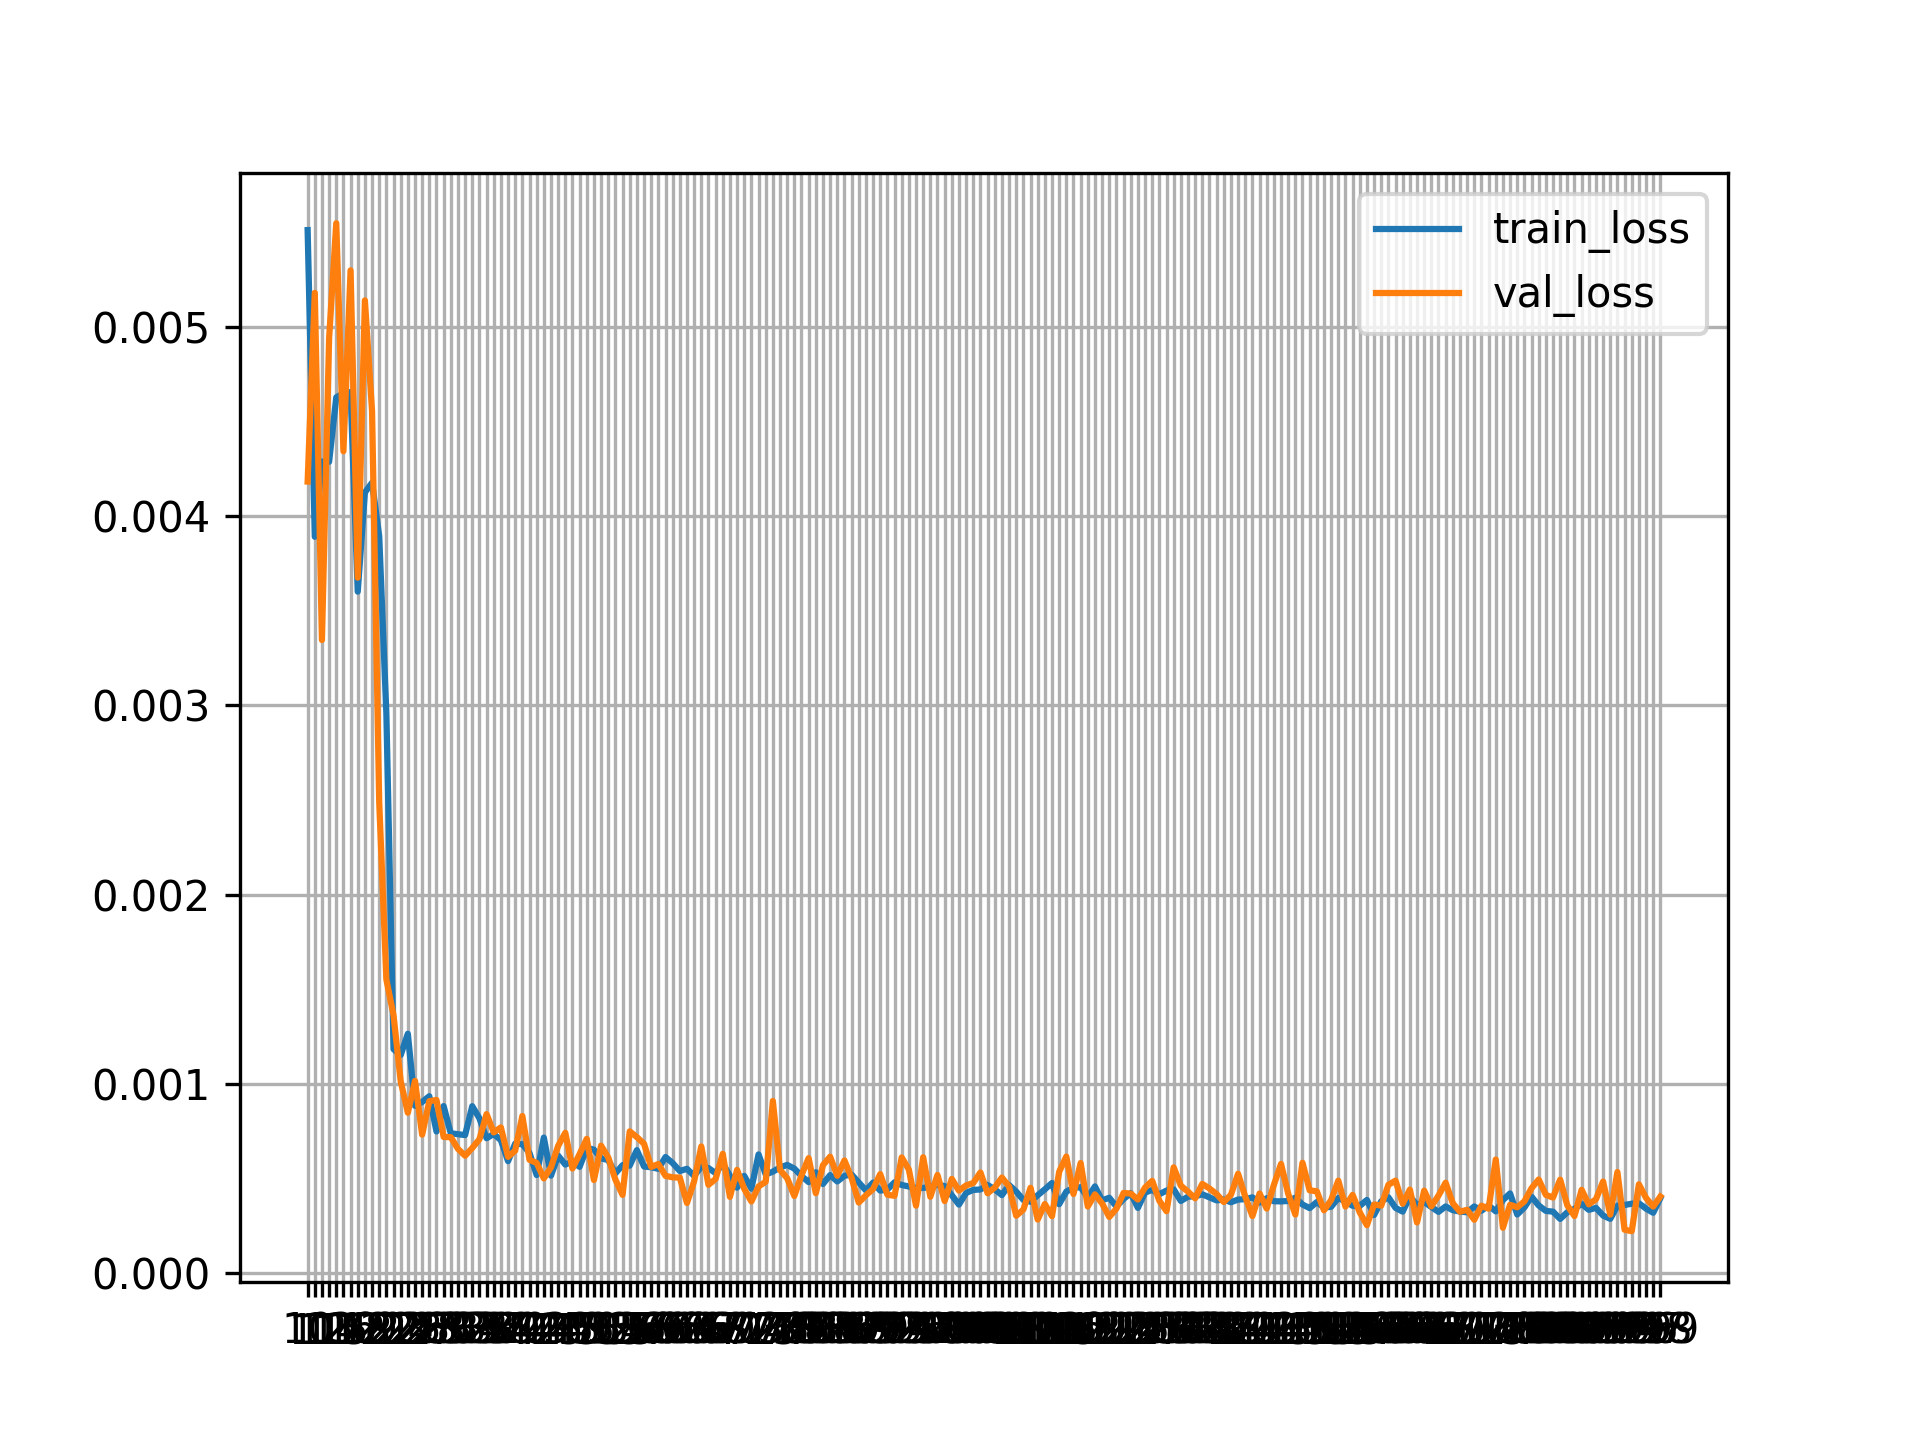
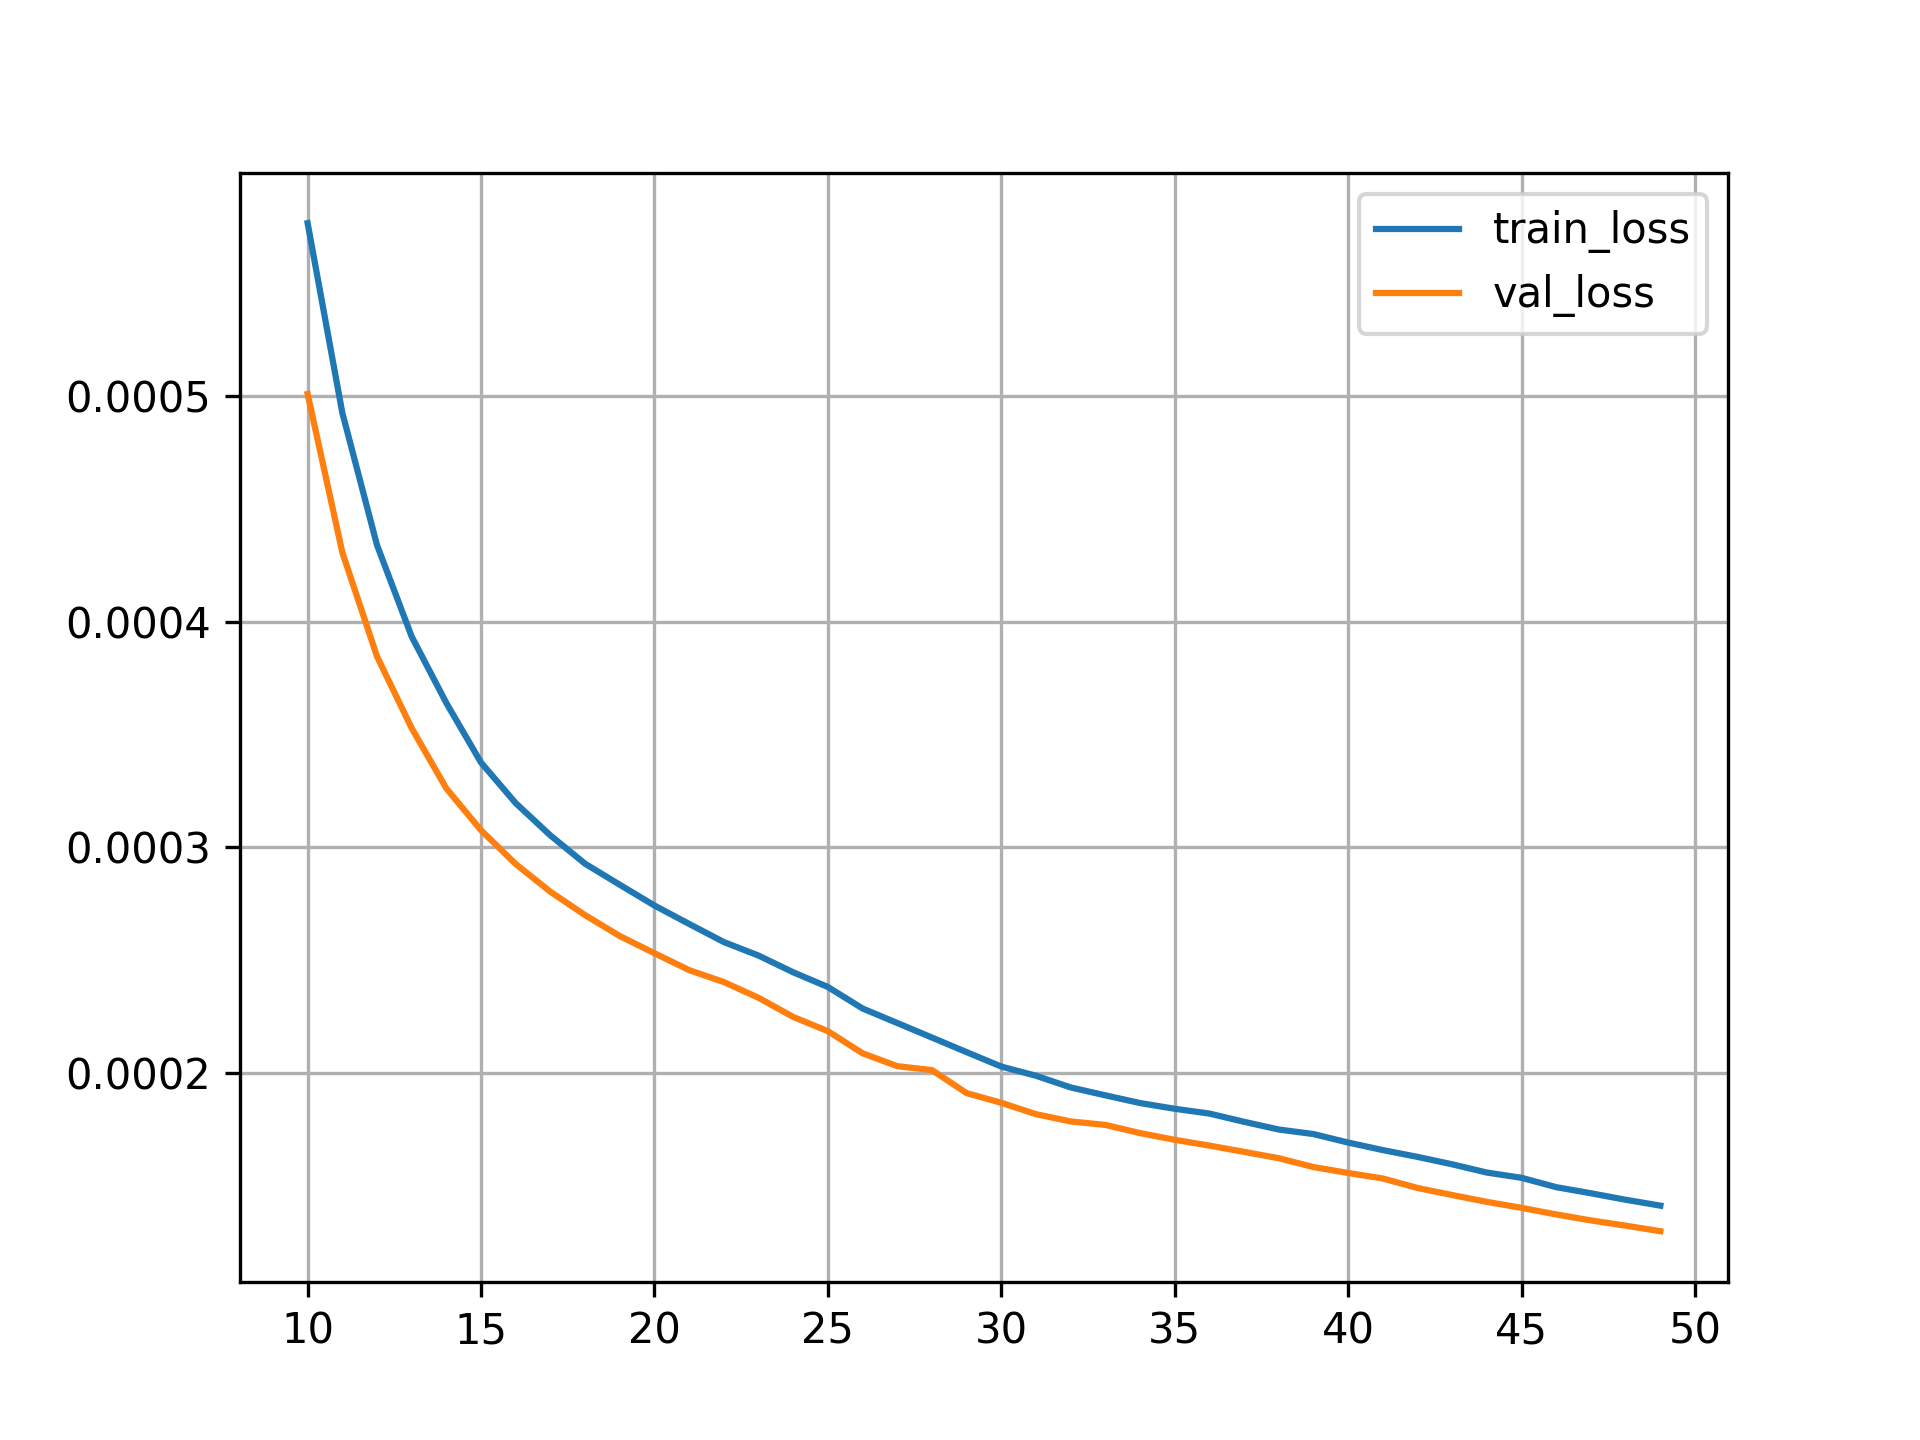
feat(train): transform remove RandAugment

diff --git a/train.py b/train.py
@@ -7,6 +7,7 @@ from matplotlib import pyplot as plt
 from model import build_AE, init_weights, test_model_architecture
 from torch.utils.data import DataLoader
 from torchvision import transforms
+from PIL import Image
 from tqdm import tqdm
 from utils.loader import KFoldDataset
 # PyTorch TensorBoard support
@@ -20,11 +21,11 @@ os.environ['CUDA_VISIBLE_DEVICES'] = '0'
 def torch_check_GPU():
     # --------------------------------------------------------------------------
     # check GPU
-    torch.cuda.is_available()
-    torch.cuda.device_count()
-    torch.cuda.current_device()
-    torch.cuda.device(0)
-    torch.cuda.get_device_name(0)
+    print(torch.cuda.is_available())
+    print(torch.cuda.device_count())
+    print(torch.cuda.current_device())
+    print(torch.cuda.device(0))
+    print(torch.cuda.get_device_name(0))
     # --------------------------------------------------------------------------
 
 
@@ -50,11 +51,10 @@ def main(config_args:argparse.Namespace=None):
     # Preparing data
     batch_size = 32
     transform = transforms.Compose([
-        transforms.Resize((200,200)),   # Resize images to 200x200
+        transforms.Resize((200,200), Image.BICUBIC),   # Resize images to 200x200
         transforms.RandomHorizontalFlip(p=0.5),
-        transforms.RandAugment(),
-        transforms.ConvertImageDtype(torch.float32)
-        # transforms.ToTensor(),  # Convert images to tensor (values between 0 and 1)
+        # transforms.ConvertImageDtype(torch.float32),
+        transforms.ToTensor(),  # Convert images to tensor (values between 0 and 1)
     ])
     training_set = KFoldDataset(root_dir=dataset_root, field_names=field_names, k=0, train=True, transform=transform)
     validation_set = KFoldDataset(root_dir=dataset_root, field_names=field_names, k=0, train=False, transform=transform)
@@ -139,7 +139,7 @@ def main(config_args:argparse.Namespace=None):
     skip_head = 0 if EPOCHS<=10 or dontskip==True else 10
     plt.plot(range(skip_head, len(training_epoch_loss)), training_epoch_loss[skip_head:], label='train_loss')
     plt.plot(range(skip_head, len(validation_epoch_loss)), validation_epoch_loss[skip_head:],label='val_loss')
-    plt.xticks(range(skip_head, len(training_epoch_loss)))
+    # plt.xticks(range(skip_head, len(training_epoch_loss)))
     plt.grid()
     plt.legend()
     plt.savefig('loss_curve.png', dpi=300)
@@ -162,6 +162,7 @@ Run on single machine:
     )
 
     parser.add_argument('-a', '--show_architecture', action='store_true', help='show model architecture')
+    parser.add_argument('-t', '--test_torch_gpu', action='store_true', help='check pytorch gpu setup')
     parser.add_argument('-e', '--epochs', type=int, default=200, help="number of epochs")
     args = parser.parse_args()
     return args
@@ -169,6 +170,9 @@ Run on single machine:
 
 if __name__=='__main__':
     args = parse_args()
+    if args.test_torch_gpu:
+        torch_check_GPU()
+        sys.exit(0)
     if args.show_architecture:
         test_model_architecture()
         sys.exit(0)
